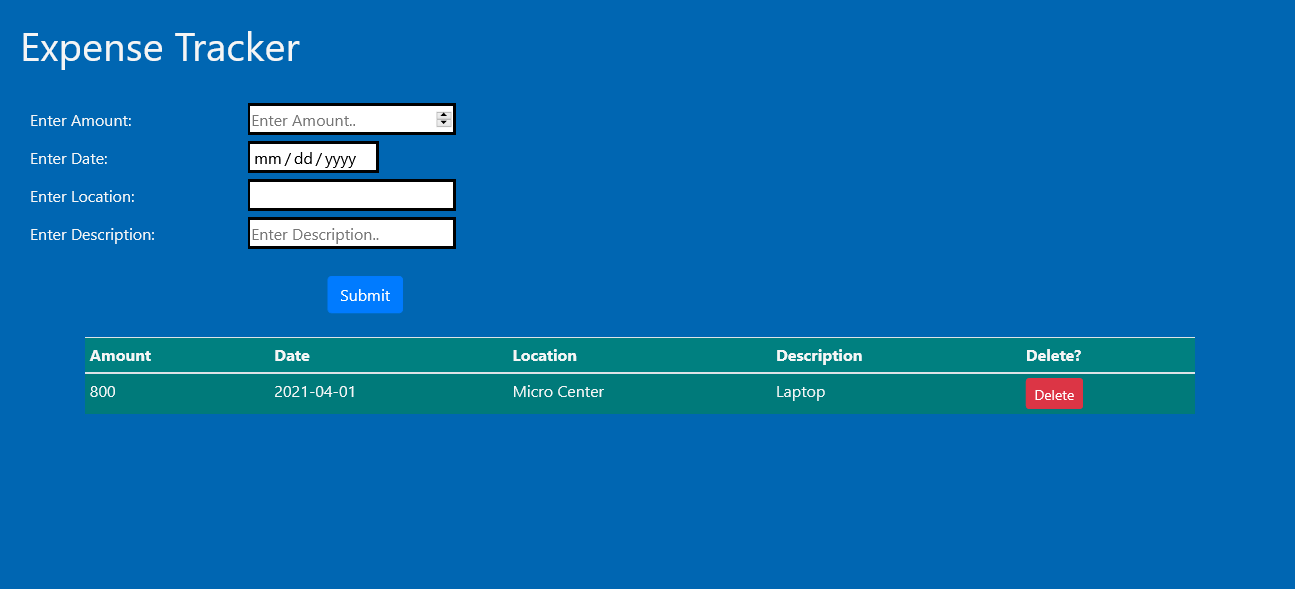
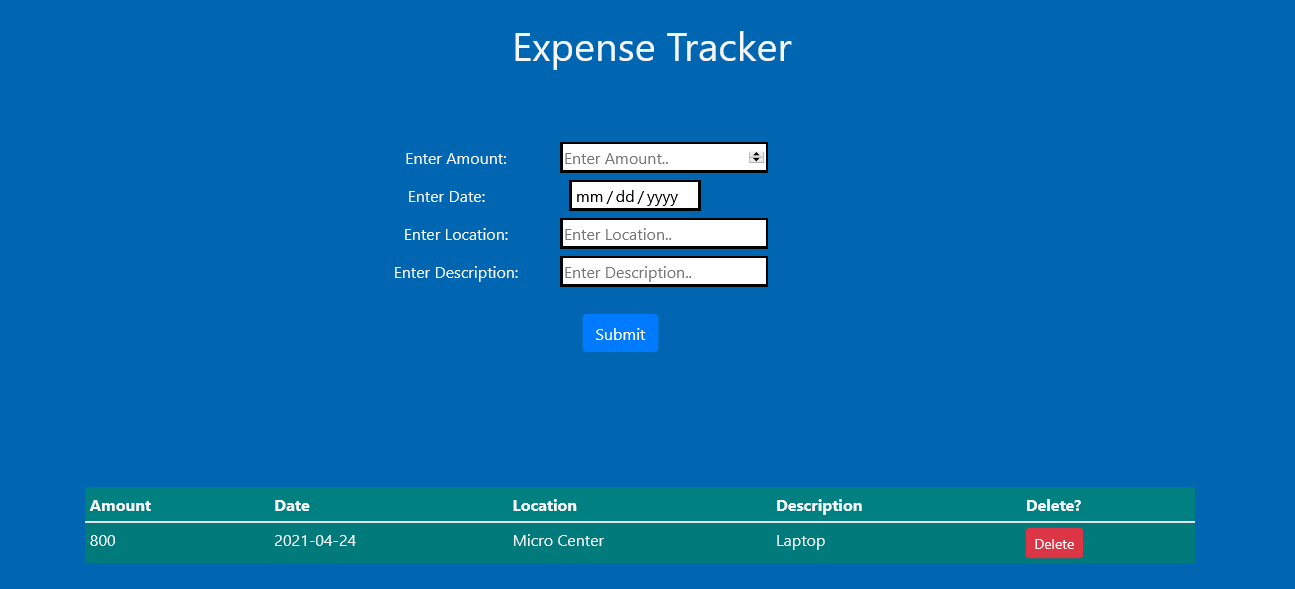
code refactor

diff --git a/src/Components/Form.js b/src/Components/Form.js
@@ -1,25 +1,32 @@
-import React, {Component} from "react"
+import React from "react"
 
-class Form extends Component{
-    render(){
+const Form  = ({ 
+  handleSubmit, 
+  handleChange, 
+  amount, 
+  date, 
+  description, 
+  location 
+}) => {
+   
     return (
     <div>
-      <form onSubmit={this.props.handleSubmit} id="form">
+      <form onSubmit={handleSubmit} id="form">
     <div className="col-sm-9">
       <label className="col-sm-3 col-form-label" amount="amount">Enter Amount:</label>
       <input 
-        onChange={this.props.handleChange}
-        value={this.props.amount}
+        onChange={handleChange}
+        value={amount}
         name='amount'
         type="number"
         placeholder="Enter Amount..">
       </input>
     </div>
-    <div className="col-sm-9">
-      <label className="col-sm-3 col-form-label" date="date">Enter Date:</label>
+    <div className="col-sm-8">
+      <label className="col-sm-4 col-form-label" date="date">Enter Date:</label>
         <input 
-          onChange={this.props.handleChange} 
-          value={this.props.date}
+          onChange={handleChange} 
+          value={date}
           name='date'
           type="date">
         </input>
@@ -27,8 +34,8 @@ class Form extends Component{
       <div className="col-sm-9">
         <label className="col-sm-3 col-form-label" location ="location">Enter Location:</label>
           <input 
-            onChange={this.props.handleChange}
-            value={this.props.location} 
+            onChange={handleChange}
+            value={location} 
             name='location'
             type="text" 
             placeholder="Enter Location..">
@@ -37,8 +44,8 @@ class Form extends Component{
         <div className="col-sm-9">
         <label className="col-sm-3 col-form-label" description="description">Enter Description:</label>
           <input 
-            onChange={this.props.handleChange} 
-            value={this.props.description}
+            onChange={handleChange} 
+            value={description}
             name='description'
             type="text"
             placeholder="Enter Description..">
@@ -46,12 +53,12 @@ class Form extends Component{
           </div>
         <br></br>
       <div className="row">
-        <div className="col-sm-9 offset-sm-3">
+        <div className="col-sm-9">
         <button 
           type="submit" 
           value="Submit Expense"
-          className="btn btn-primary"
-          onSubmit={this.props.handleSubmit}
+          className="btn btn-primary submitButton"
+          onSubmit={handleSubmit}
           >
           Submit
           </button>
@@ -61,5 +68,5 @@ class Form extends Component{
     </div>
       )
     }
-  }
+
   export default Form

diff --git a/src/App.js b/src/App.js
@@ -2,7 +2,6 @@ import React, {Component} from "react";
 import 'bootstrap/dist/css/bootstrap.min.css'
 import './App.css';
 
-
 import Form from "./Components/Form";
 import Table from "./Components/Table";
 
@@ -17,34 +16,62 @@ class App extends Component {
     this.handleChange = this.handleChange.bind(this);
     this.handleSubmit = this.handleSubmit.bind(this);
     this.handleDelete= this.handleDelete.bind(this);
-  }
+  };
 
+  componentDidMount(){
+    const localStorageExpenses = 
+    JSON.parse(localStorage.getItem('expenses')) || [];
+  localStorageExpenses 
+    ? this.setState({
+      expenses: localStorageExpenses
+    })
+   : this.setState({ expenses: [] });
+  };
+
+  componentDidUpdate(prevPops, prevState){
+    if (this.state.expenses !== prevState.expenses.length){
+      localStorage.setItem('expenses', JSON.stringify(this.state.expenses));
+    };
+  };
+  
     handleChange(e) {
-      const value = e.target.value
+      const {name, value} = e.target
       this.setState({
-        [e.target.name]: value 
-      })    
-    }
+        [name]: value 
+      });  
+    };
 
     handleSubmit(e) { 
       e.preventDefault();
+      const { amount, date, location, description } = this.state
+      if (!amount  || !date || !location || !description){
+        alert("Please complete all fields before submitting.")
+        return
+      }
       const expenseItem = {
         id: Math.random(),
         amount: this.state.amount,
         date: this.state.date,
         location: this.state.location ,
         description: this.state.description 
-      }
+      };
       this.setState (prevState => ({
-        expenses: [...prevState.expenses, expenseItem]
-      }))
-    }
+        expenses: [...prevState.expenses, expenseItem], 
+        amount: '', 
+        date: '',
+        location: '', 
+        description: ''
+      }));
+    };
     
-    handleDelete = () => {
+    handleDelete = (id) => {
+      const tableMinusTargetRow = this.state.expenses.filter(
+        (expenseRow) => expenseRow.id !== id 
+      );
       this.setState({
-        expenses: this.state.expenses.slice(0,-1)
-      })
-    }
+        expenses: tableMinusTargetRow
+      });
+    };
 
     render (){
       return (

diff --git a/src/Components/Table.js b/src/Components/Table.js
@@ -1,8 +1,8 @@
-import React, { Component } from "react";
+import React from "react";
+import TableRow from "./TableRow"
 
-
-class Table extends Component{
-  render (){
+const Table  = ({expenses, handleDelete}) => {
+  
     return (
       <div id="table" className="container">
           <table className="table table-sm table-striped table-hover">
@@ -12,41 +12,15 @@ class Table extends Component{
               <th>Date</th>
               <th>Location</th>
               <th>Description</th>
-              <th >Delete?</th>
+              <th>Delete?</th>
             </tr>
               </thead>
               <tbody>
-                {this.props.expenses.map(expense => {
-                  return (
-                    <tr key={expense.id}>
-                      <td>
-                        {expense.amount}
-                      </td>
-                      <td>
-                        {expense.date}
-                      </td>
-                      <td>
-                        {expense.location}
-                      </td>
-                      <td>
-                        {expense.description}
-                      </td>
-                      <td>
-                        <button 
-                          onClick={this.props.handleDelete}
-                          className="btn btn-danger align-middle btn-sm"
-                          >
-                          Delete
-                        </button>
-                      </td>
-                    </tr>
-                  )
-                })}
+                <TableRow expenses={expenses} handleDelete={handleDelete} />
               </tbody>
           </table>
         </div>
     )
   }
-}
 
 export default Table

diff --git a/src/Components/TableRow.js b/src/Components/TableRow.js
@@ -1,0 +1,24 @@
+import React from "react";
+
+const TableRow = ( {expenses, handleDelete} ) => {
+  return expenses.map((expense) => {
+      return (
+        <tr key={expense.id}>
+          <td>{expense.amount}</td>
+          <td>{expense.date}</td>
+          <td>{expense.location}</td>
+          <td>{expense.description}</td>
+          <td>
+            <button 
+              onClick={() => handleDelete(expense.id)}
+              className="btn btn-danger align-middle btn-sm"
+              >
+              Delete
+            </button>
+          </td>
+        </tr>
+      );
+  });
+};
+
+export default TableRow

diff --git a/src/App.css b/src/App.css
@@ -3,7 +3,7 @@ body{
 }
 
 h1{
-  margin-left: 0.5em;
+  margin-left: 40%;
   margin-top: 0.5em;
   color:whitesmoke
 }
@@ -14,6 +14,7 @@ th, td, label{
 
 table{
   background-color: teal;
+  margin-top: 10%;
 }
 
 input{
@@ -22,4 +23,15 @@ input{
 
 input:focus{
   background-color: lightseagreen;
+}
+
+form {
+  margin-top: 3%;
+  margin-left: 10%;
+  text-align: center;
+}
+
+.submitButton {
+margin-left: 15%;
+border-radius: 10 px;
 }

diff --git a/README.md b/README.md
@@ -1,6 +1,6 @@
 # React.js Expense Tracker
 
-An Expense tracker using React.js, HTML, CSS, JavaScript, and Bootstrap.
+An Expensive tracker using React.js, HTML, CSS, JavaScript, and Bootstrap.
 
 ### Try it out [here](https://improved-expense-tracker.herokuapp.com/)
 
